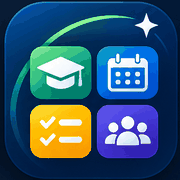
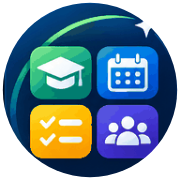
Dashboard veröffentlichen

diff --git a/index.html b/index.html
@@ -1,10 +1,32 @@
 <!DOCTYPE html>
-<html lang="de" data-access="locked">
+<html lang="de" data-access="locked" data-startup="loading">
 <head>
 <meta charset="UTF-8">
 <meta name="viewport" content="width=device-width, initial-scale=1.0">
-<meta name="hbl-version" content="8.0.16">
-<title>Schul-Dashboard HBL · v8.0.16</title>
+<meta name="hbl-version" content="8.0.17">
+<title>Schul-Dashboard HBL · v8.0.17</title>
+<style>
+#hblStartup{position:fixed;inset:0;z-index:20000;display:grid;place-items:center;padding:24px;background:var(--start-bg,#f4f6f8);color:var(--start-ink,#18202a);text-align:center;font-family:system-ui,sans-serif}
+html[data-startup-world=organic]{--start-bg:#f5ecdf;--start-ink:#183c2b}
+html[data-startup-world=glass]{--start-bg:linear-gradient(135deg,#edf5ff,#e8e5f7);--start-ink:#202c4b}
+html[data-startup-dark=true]{--start-bg:#111a29;--start-ink:#edf4ff}
+html[data-startup-world=organic][data-startup-dark=true]{--start-bg:#17271f;--start-ink:#edf3e9}
+html[data-startup-world=glass][data-startup-dark=true]{--start-bg:linear-gradient(135deg,#101d32,#29223d);--start-ink:#edf4ff}
+#hblStartup>section{max-width:28rem}
+#hblStartup img{display:block;width:clamp(110px,24vmin,180px);height:auto;aspect-ratio:1;margin:0 auto 20px}
+#hblStartup h1{font-size:clamp(20px,4vw,26px);margin:0 0 16px}
+#hblStartup p{line-height:1.5;margin:12px 0}
+#hblStartupDots{display:flex;justify-content:center;gap:7px}
+#hblStartupDots i{width:6px;height:6px;border-radius:50%;background:currentColor;animation:hbl-start-pulse 1s ease-in-out infinite alternate}
+#hblStartupDots i:nth-child(2){animation-delay:.15s}#hblStartupDots i:nth-child(3){animation-delay:.3s}
+#hblStartupRetry{min-height:44px;padding:10px 18px;border:1px solid currentColor;border-radius:10px;background:transparent;color:inherit;font:600 15px system-ui;cursor:pointer}
+html:not([data-startup=loading]):not([data-startup=error]) #hblStartup{display:none!important}
+html[data-startup=error] #hblStartupDots{display:none}
+html:is([data-startup=loading],[data-startup=error]) :is(#hblCloudModal,#hblProfileOverlay){display:none!important}
+@keyframes hbl-start-pulse{to{opacity:.25;transform:translateY(-3px)}}
+@media(prefers-reduced-motion:reduce){#hblStartupDots i{animation:none}}
+</style>
+
 <style>
 :root{
   --bg:#f4f6f8; --panel:#ffffff; --panel2:#eef2f5; --text:#18202a; --muted:#697582;
@@ -1381,13 +1403,14 @@ body.dark .hbl-slot-item.shared{background:#253247;color:#ecf2fa}
 <link rel="stylesheet" href="./hbl-v57.css?v=5.9.7-chat">
 <link rel="stylesheet" href="./hbl-v58.css?v=5.8">
 <link rel="stylesheet" href="./hbl-v59.css?v=5.9.11-courses">
-<link rel="manifest" href="./manifest.webmanifest?v=8.0.16">
+<link rel="manifest" href="./manifest.webmanifest?v=8.0.17">
 <meta name="theme-color" content="#253b60">
 <meta name="apple-mobile-web-app-capable" content="yes">
 <meta name="apple-mobile-web-app-title" content="HBL Dashboard">
 <meta name="apple-mobile-web-app-status-bar-style" content="black-translucent">
-<link rel="icon" href="./hbl-icon-48.png?v=8.0.16" type="image/png" sizes="48x48">
-<link rel="apple-touch-icon" sizes="180x180" href="./hbl-icon-180.png?v=8.0.16">
+<link rel="icon" href="./hbl-icon-48.png?v=8.0.17" type="image/png" sizes="48x48">
+<link rel="icon" href="./hbl-icon.svg?v=8.0.17" type="image/svg+xml">
+<link rel="apple-touch-icon" sizes="180x180" href="./hbl-icon-180.png?v=8.0.17">
 <script src="./hbl-course-ids.js?v=5.9.10"></script>
 <script src="./hbl-courses.js?v=5.9.13"></script>
 <script src="./hbl-grades.js?v=5.9.20"></script>
@@ -1396,27 +1419,61 @@ body.dark .hbl-slot-item.shared{background:#253247;color:#ecf2fa}
 <script src="./hbl-seating.js?v=5.9.21"></script>
 <script src="./hbl-seat-rating.js?v=7.6.0"></script>
 <script src="./hbl-seat-view.js?v=6.1.2"></script>
-<script src="./hbl-course-page.js?v=8.0.16"></script>
-<link rel="stylesheet" href="./hbl-course-page.css?v=8.0.16">
-<link rel="stylesheet" href="./hbl-quickbar.css?v=8.0.16">
-<script defer src="./mein-hbl.js?v=8.0.16"></script><script defer src="./hbl-music.js?v=6.0.1"></script>
+<script src="./hbl-course-page.js?v=8.0.17"></script>
+<link rel="stylesheet" href="./hbl-course-page.css?v=8.0.17">
+<link rel="stylesheet" href="./hbl-quickbar.css?v=8.0.17">
+<script defer src="./mein-hbl.js?v=8.0.17"></script><script defer src="./hbl-music.js?v=6.0.1"></script>
 <script defer src="./mobile.js?v=7.0.8"></script>
 <script defer src="https://cdn.jsdelivr.net/npm/@supabase/supabase-js@2.57.0"></script>
 
-<script defer src="./cloud.js?v=8.0.16"></script>
+<script defer src="./cloud.js?v=8.0.17"></script>
 <script defer src="./hbl-v55.js?v=7.0.8"></script>
 <script defer src="./hbl-v56.js?v=6.0.8"></script>
 <script defer src="./hbl-v57.js?v=5.9.7-chat"></script>
 <script defer src="./hbl-v58.js?v=5.9.5"></script>
 <script defer src="./hbl-v59.js?v=6.0.7"></script>
-<script defer src="./hbl-pwa-update.js?v=8.0.16"></script>
-<script defer src="./hbl-quickbar.js?v=8.0.16"></script>
-<style>#dashboardBoard>.dashboard-tile[hidden],#hblMobileNav button[hidden]{display:none!important}.mein-hbl fieldset{min-width:0;border:1px solid var(--line);border-radius:8px}.mein-hbl fieldset label{display:flex;align-items:center;min-height:40px}.mein-hbl{box-sizing:border-box;width:min(28rem,94vw);max-height:85dvh;overflow:auto;color:var(--text);background:var(--panel);border:1px solid var(--line);border-radius:16px;padding:1.2rem}.mein-hbl::backdrop{background:#10182077}.mein-hbl header{display:flex;align-items:center;justify-content:space-between}.mein-hbl section:not([hidden]),.mein-hbl label{display:grid;gap:.5rem}.mein-hbl button,.mein-hbl select{min-height:44px;padding:.5rem .8rem;border:1px solid var(--line);border-radius:8px;color:inherit;background:var(--panel2);font:inherit}.mein-hbl button:disabled{opacity:.6}.mein-hbl footer{border-top:1px solid var(--line);padding-top:.75rem}.mein-hbl a{color:var(--accent)}</style><style>#hblAppRoot{display:contents}</style><link rel="stylesheet" href="./hbl-workspace.css?v=8.0.16"><script defer src="./hbl-workspace.js?v=8.0.16"></script><script defer src="./hbl-sync-indicator.js?v=8.0.16"></script><style>
-html:not([data-access=ready]) body > :not(#hblCloudModal):not(#hblProfileOverlay):not(#hblUpdateNotice):not(script):not(style){display:none!important}
+<script defer src="./hbl-pwa-update.js?v=8.0.17"></script>
+<script defer src="./hbl-quickbar.js?v=8.0.17"></script>
+<style>#dashboardBoard>.dashboard-tile[hidden],#hblMobileNav button[hidden]{display:none!important}.mein-hbl fieldset{min-width:0;border:1px solid var(--line);border-radius:8px}.mein-hbl fieldset label{display:flex;align-items:center;min-height:40px}.mein-hbl{box-sizing:border-box;width:min(28rem,94vw);max-height:85dvh;overflow:auto;color:var(--text);background:var(--panel);border:1px solid var(--line);border-radius:16px;padding:1.2rem}.mein-hbl::backdrop{background:#10182077}.mein-hbl header{display:flex;align-items:center;justify-content:space-between}.mein-hbl section:not([hidden]),.mein-hbl label{display:grid;gap:.5rem}.mein-hbl button,.mein-hbl select{min-height:44px;padding:.5rem .8rem;border:1px solid var(--line);border-radius:8px;color:inherit;background:var(--panel2);font:inherit}.mein-hbl button:disabled{opacity:.6}.mein-hbl footer{border-top:1px solid var(--line);padding-top:.75rem}.mein-hbl a{color:var(--accent)}</style><style>#hblAppRoot{display:contents}</style><link rel="stylesheet" href="./hbl-workspace.css?v=8.0.17"><script defer src="./hbl-workspace.js?v=8.0.17"></script><script defer src="./hbl-sync-indicator.js?v=8.0.17"></script><style>
+html:not([data-access=ready]) body > :not(#hblStartup):not(#hblCloudModal):not(#hblProfileOverlay):not(#hblUpdateNotice):not(script):not(style){display:none!important}
 html:not([data-access=ready]) #hblCloudClose{display:none}
 html:not([data-access=ready]) body{padding:0!important}
 </style></head>
 <body>
+<div id="hblStartup" role="status" aria-live="polite" aria-label="App-Start">
+ <section><img src="./hbl-icon-192.png?v=8.0.17" width="192" height="192" alt="Schul-Dashboard App-Symbol" fetchpriority="high">
+ <h1>Schul-Dashboard</h1><div id="hblStartupDots" aria-hidden="true"><i></i><i></i><i></i></div>
+ <p id="hblStartupText">Anmeldung wird geprüft …</p><button id="hblStartupRetry" type="button" hidden>Erneut versuchen</button>
+ <noscript>Bitte JavaScript aktivieren, um das Dashboard zu öffnen.</noscript></section>
+</div>
+<script id="hblStartupController">
+(()=>{
+ const root=document.documentElement,byId=id=>document.getElementById(id);
+ try{
+  const world=localStorage.getItem('hbl-startup-world');
+  if(['organic','professional','glass'].includes(world))root.dataset.startupWorld=world;
+  root.dataset.startupDark=String(localStorage.getItem('schoolTheme')==='dark');
+ }catch(_){}
+ let timer,cancel;
+ function finish(state){clearTimeout(timer);cancel=null;root.dataset.startup=state;}
+ function fail(text){
+  clearTimeout(timer);const abort=cancel;cancel=null;abort?.();
+  root.dataset.startup='error';
+  byId('hblStartupText').textContent=text||'Die Verbindung konnte nicht hergestellt werden. Bitte Internetverbindung prüfen und erneut versuchen.';
+  byId('hblStartupRetry').hidden=false;
+ }
+ function begin(onCancel){
+  clearTimeout(timer);cancel=onCancel;
+  root.dataset.startup='loading';byId('hblStartupRetry').hidden=true;
+  byId('hblStartupText').textContent='Anmeldung wird geprüft …';
+  timer=setTimeout(()=>fail('Die Prüfung dauert zu lange. Bitte Internetverbindung prüfen und erneut versuchen.'),15000);
+ }
+ byId('hblStartupRetry').onclick=()=>location.reload();
+ window.hblStartup={begin,finish,fail};
+ begin();
+})();
+</script>
+
 <script>
 /* =========================
    EINFACH ANPASSEN
@@ -2677,7 +2734,7 @@ function renderHome(){
       <section class="hero">
         <div class="hero-content">
           <div class="hero-intro">
-            <div class="hero-headline"><h1>Schul-Dashboard HBL</h1><span class="dashboard-version" title="Dashboard-Version vom 22. November 2026">v8.0.16 Pre-Alpha<span class="dashboard-version-date"> · GitHub Pages</span></span></div>
+            <div class="hero-headline"><h1>Schul-Dashboard HBL</h1><span class="dashboard-version" title="Dashboard-Version vom 22. November 2026">v8.0.17 Pre-Alpha<span class="dashboard-version-date"> · GitHub Pages</span></span></div>
             <p>Alles Wichtige für den Schulalltag an einem Ort.</p><div class="demo-alert">TESTVERSION · Nur Beispieldaten verwenden · Persönliches Konto mit Cloud-Synchronisierung</div>
             <div class="dashboard-creator" aria-label="Designed by Michael Baumann"><span class="creator-label">Designed by</span><span class="creator-signature"><svg class="creator-logo" xmlns="http://www.w3.org/2000/svg" viewBox="0 0 1058 119" role="img" aria-label="Michael Baumann" preserveAspectRatio="xMinYMid meet">
 <title>Michael Baumann</title>

diff --git a/cloud.js b/cloud.js
@@ -11,7 +11,7 @@ function access(allowed){
  const root=document.getElementById("hblAppRoot");if(root)root.inert=!allowed;
 }
 access(false);
-let sessionVersion=0,changeVersion=0,readVersion=0,restoring=false;
+let bootVersion=0,sessionVersion=0,changeVersion=0,readVersion=0,restoring=false;
 let loggingOut=false,retrying=false,pendingBackupFailed=false;
 function userKey(){return user ? "hbl-cloud-pending-"+user.id : "";}
 function validDemoData(data){return data&&typeof data==="object"&&!Array.isArray(data);}
@@ -127,12 +127,29 @@ window.savePrepFile=function(){
  });
  return queue;
 };
+function beginStartup(){
+ window.hblStartup?.begin(()=>{
+  bootVersion++;sessionVersion++;readVersion++;
+  active=false;serverReady=false;access(false);
+ });
+}
+function startupFailure(error){
+ if(error?.status===401||['refresh_token_not_found','refresh_token_already_used','bad_jwt','session_not_found'].includes(error?.code)){
+  user=null;active=false;serverReady=false;access(false);controls();
+  message("Deine Sitzung ist abgelaufen. Bitte erneut anmelden.",true);
+  window.hblStartup?.finish("login");showModal(true);
+ }else{
+  status("Start fehlgeschlagen: "+(error?.message||"Verbindung nicht erreichbar"),true);
+  window.hblStartup?.fail();
+ }
+}
 async function startSession(session){
+ beginStartup();
  const version=++sessionVersion;
- access(false);
+ serverReady=false;access(false);
  user=session?.user||null;
  active=false;paused=false;dirty=false;revision=0;pendingBackupFailed=false;
- if(!user){active=false;paused=false;dirty=false;revision=0;controls();showModal(true);return;}
+ if(!user){active=false;paused=false;dirty=false;revision=0;controls();window.hblStartup?.finish("login");showModal(true);return;}
  controls();
  try{
   const membership=await client.from("hbl_dashboard_members").select("enabled").eq("user_id",user.id).maybeSingle();
@@ -141,7 +158,7 @@ async function startSession(session){
   if(!membership.data?.enabled){
    active=false;
    status("Konto nicht freigeschaltet – bitte Administrator kontaktieren",true);
-   message("Konto nicht freigeschaltet – bitte Administrator kontaktieren",true);showModal(true);
+   message("Konto nicht freigeschaltet – bitte Administrator kontaktieren",true);window.hblStartup?.finish("login");showModal(true);
    window.dispatchEvent(new Event("hbl-cloud-status"));
    return;
   }
@@ -156,9 +173,9 @@ async function startSession(session){
    status("Lokale Änderungen wiederhergestellt – bitte exportieren oder erneut speichern",true);
   }else await loadRemote();
   if(version!==sessionVersion)return;
-  access(true);showModal(false);
+  access(true);window.hblStartup?.finish("ready");showModal(false);
   window.dispatchEvent(new Event("hbl-cloud-status"));
- }catch(e){status("Cloud-Laden fehlgeschlagen: "+e.message,true);message(e.message,true);}
+ }catch(e){if(version===sessionVersion)startupFailure(e);}
 }
 window.hblLogout=async function(){
  if(loggingOut||!client)return false;
@@ -219,9 +236,14 @@ async function initializeAuth(){
  el("hblCloudForm").onsubmit=async e=>{
   e.preventDefault();
   if(!client)return message("Supabase-Anmeldung konnte nicht geladen werden.",true);
+  beginStartup();const attempt=++bootVersion;
   message("Anmeldung läuft …");
-  const {data,error}=await client.auth.signInWithPassword({email:el("hblCloudEmail").value.trim(),password:el("hblCloudPassword").value});
-  if(error)message(error.message,true);else {message("Angemeldet ✓");await startSession(data.session);}
+  try{
+   const {data,error}=await client.auth.signInWithPassword({email:el("hblCloudEmail").value.trim(),password:el("hblCloudPassword").value});
+   if(attempt!==bootVersion)return;
+   if(error){window.hblStartup?.finish("login");showModal(true);message(error.message,true);}
+   else {message("Angemeldet ✓");await startSession(data.session);}
+  }catch(e){if(attempt===bootVersion)startupFailure(e);}
  };
  el("hblLocalBackup").onclick=downloadLocalBackup;
  el("hblCloudLogout").onclick=()=>window.hblLogout();
@@ -238,8 +260,8 @@ async function initializeAuth(){
   try{await cloudWrite(saved);applyPrepData(saved);}
   catch(e){status("Übernahme fehlgeschlagen: "+e.message,true);}
  };
- showModal(true);
- if(!window.supabase?.createClient){message("Anmeldung nicht erreichbar. Bitte Internetverbindung prüfen und Seite neu laden.",true);status("Cloud-Bibliothek nicht geladen – bitte Seite neu öffnen",true);return;}
+ beginStartup();
+ if(!window.supabase?.createClient){startupFailure(Error("Cloud-Bibliothek nicht geladen"));return;}
  client=window.supabase.createClient(URL,KEY,{auth:{persistSession:true,autoRefreshToken:true,detectSessionInUrl:true}});
  window.hblCloudClient=client;
  window.hblCloudUser=()=>user;
@@ -258,16 +280,20 @@ async function initializeAuth(){
   }
  };
  client.auth.onAuthStateChange((event,session)=>{
-  if(event==="SIGNED_OUT"){sessionVersion++;user=null;active=false;access(false);controls();showModal(true);window.dispatchEvent(new Event("hbl-cloud-status"));}
-  if((event==="SIGNED_IN"||event==="PASSWORD_RECOVERY")&&session?.user&&session.user.id!==user?.id){
-   setTimeout(()=>{if(session?.user&&session.user.id!==user?.id)void startSession(session);},0);
+  if(event==="SIGNED_OUT"){bootVersion++;sessionVersion++;user=null;active=false;access(false);controls();window.hblStartup?.finish("login");showModal(true);window.dispatchEvent(new Event("hbl-cloud-status"));}
+  if(document.documentElement.dataset.startup!=="error"&&(event==="SIGNED_IN"||event==="PASSWORD_RECOVERY")&&session?.user&&session.user.id!==user?.id){
+   setTimeout(()=>{if(document.documentElement.dataset.startup!=="error"&&session?.user&&session.user.id!==user?.id)void startSession(session);},0);
   }
   // TOKEN_REFRESHED does not replace the current state.
  });
- const {data,error}=await client.auth.getSession();
- if(error)status("Anmeldung konnte nicht gelesen werden: "+error.message,true);
- else if(data.session)await startSession(data.session);
- else {controls();showModal(true);window.dispatchEvent(new Event("hbl-cloud-status"));}
+ const attempt=++bootVersion;
+ try{
+  const {data,error}=await client.auth.getSession();
+  if(attempt!==bootVersion)return;
+  if(error)startupFailure(error);
+  else if(data.session)await startSession(data.session);
+  else {controls();window.hblStartup?.finish("login");showModal(true);window.dispatchEvent(new Event("hbl-cloud-status"));}
+ }catch(e){if(attempt===bootVersion)startupFailure(e);}
  window.addEventListener("hbl-profile-changed",controls);
  window.addEventListener("offline",()=>status(paused?"Sync-Problem · offline. Lokale Änderungen prüfen":"Offline · Änderungen bleiben lokal, Verbindung wird benötigt",false,paused?"error":"pending"));
  window.addEventListener("online",()=>void resumeSync());

diff --git a/sw.js b/sw.js
@@ -1,7 +1,7 @@
 /* HBL v5.5 – Offline-App-Shell & Push-Empfang. Keine Nutzerdaten im SW-Cache. */
-const CACHE="hbl-pwa-shell-v8016-round-icon";
-const ASSETS=["./hbl-sync-indicator.js?v=8.0.16","./hbl-workspace.js?v=8.0.16","./hbl-workspace.css?v=8.0.16","./hbl-pwa-update.js?v=8.0.16","./hbl-quickbar.css?v=8.0.16","./hbl-quickbar.js?v=8.0.16","./hbl-music.js?v=6.0.1","./supabase/functions/hbl-push-dispatch/push-policy.mjs?v=6.0.0","./mein-hbl.js?v=8.0.16","./hbl-grades.js?v=5.9.20","./hbl-participation-grades.js?v=7.4.0","./hbl-class-rosters.js?v=7.0.13","./hbl-seating.js?v=5.9.21","./hbl-seat-rating.js?v=7.6.0","./hbl-seat-view.js?v=6.1.2","./hbl-course-page.js?v=8.0.16","./hbl-course-page.css?v=8.0.16","./hbl-courses.js?v=5.9.13","./hbl-course-ids.js?v=5.9.10","./","./index.html","./mobile.css?v=6.0.6","./cloud.css?v=6.1.0",
- "./hbl-v55.css?v=6.0.6","./hbl-v56.css?v=5.6","./hbl-v57.css?v=5.9.7-chat","./hbl-v58.css?v=5.8","./hbl-v59.css?v=5.9.11-courses","./mobile.js?v=7.0.8","./cloud.js?v=8.0.16",
+const CACHE="hbl-pwa-shell-v8017-startup";
+const ASSETS=["./hbl-icon-192.png?v=8.0.17","./hbl-icon-180.png?v=8.0.17","./hbl-icon-48.png?v=8.0.17","./hbl-icon.svg?v=8.0.17","./hbl-sync-indicator.js?v=8.0.17","./hbl-workspace.js?v=8.0.17","./hbl-workspace.css?v=8.0.17","./hbl-pwa-update.js?v=8.0.17","./hbl-quickbar.css?v=8.0.17","./hbl-quickbar.js?v=8.0.17","./hbl-music.js?v=6.0.1","./supabase/functions/hbl-push-dispatch/push-policy.mjs?v=6.0.0","./mein-hbl.js?v=8.0.17","./hbl-grades.js?v=5.9.20","./hbl-participation-grades.js?v=7.4.0","./hbl-class-rosters.js?v=7.0.13","./hbl-seating.js?v=5.9.21","./hbl-seat-rating.js?v=7.6.0","./hbl-seat-view.js?v=6.1.2","./hbl-course-page.js?v=8.0.17","./hbl-course-page.css?v=8.0.17","./hbl-courses.js?v=5.9.13","./hbl-course-ids.js?v=5.9.10","./","./index.html","./mobile.css?v=6.0.6","./cloud.css?v=6.1.0",
+ "./hbl-v55.css?v=6.0.6","./hbl-v56.css?v=5.6","./hbl-v57.css?v=5.9.7-chat","./hbl-v58.css?v=5.8","./hbl-v59.css?v=5.9.11-courses","./mobile.js?v=7.0.8","./cloud.js?v=8.0.17",
  "./hbl-v55.js?v=7.0.8","./hbl-v56.js?v=6.0.8","./hbl-v57.js?v=5.9.7-chat","./hbl-v58.js?v=5.9.5","./hbl-v59.js?v=6.0.7","./manifest.webmanifest","./hbl-icon.svg","./hbl-icon-192.png","./hbl-icon-512.png","./hbl-icon-180.png","./hbl-icon-48.png","./hbl-icon-maskable-512.png","./hbl-icon-round-maskable.svg"];
 self.addEventListener("install",event=>{
  // Auch die beiden Shell-URLs "./" und "./index.html" müssen beim Update

diff --git a/hbl-workspace.js b/hbl-workspace.js
@@ -16,6 +16,7 @@
  function apply(value={}){
   value=value||{};
   root.dataset.world=["organic","professional","glass"].includes(value.theme)?value.theme:defaults.theme;
+  if(typeof serverReady!=='undefined'&&serverReady){try{localStorage.setItem('hbl-startup-world',root.dataset.world);}catch(_){}}
   root.dataset.dock=["top","bottom","left","right"].includes(value.position)?value.position:"top";
   root.dataset.compact=String(value.collapsed===true);
   const toggle=document.querySelector("#workspaceNav [data-action=fold]");

diff --git a/CHANGELOG.md b/CHANGELOG.md
@@ -1,3 +1,7 @@
+## v8.0.17 – 25.11.2026 · Codex
+
+Gewähltes rundes Icon unverändert aus der SVG-Vorlage in alle PNG-Größen übernommen, mit transparenten Ecken und eigener undurchsichtiger Android-Maske innerhalb der sicheren Kreisfläche. App-Start zeigt dasselbe Icon und prüft Sitzung, Freigabe und Daten vor dem Öffnen; kein vorzeitiges Login. Verbindungsfehler/15-Sekunden-Zeitlimit mit Wiederholen, verspätete Antworten verworfen, reduzierte Bewegung berücksichtigt. Prüfstand: 120 Tests, Release-Paketprüfung, Browser-Starttests und Icon-Pixelprüfung; echte Android-/iPad-Launcher-Abnahme offen. Endgültige Homescreen-Maske und Symbol-Cache bleiben Betriebssystemvorgaben.
+
 ## v8.0.15 – 25.11.2026 · ChatGPT
 
 Neues App-Symbol (gewählter Vorschlag 3): vier farbige Kacheln für Bildung, Kalender, Aufgaben und Kollegium ohne HBL-Schriftzug. Eigene PNG-Icons für PWA (192/512), maskierbares Android-Icon (512), Apple-Startbildschirm (180) und Browser-Favicon (48), dazu gleich gestaltetes SVG. Manifest, HTML-Icon-Links, Service-Worker-Cache und öffentliche Release-Whitelist aktualisiert. Automatische Größen-/Releaseprüfung ergänzt; echte Gerätetests sowie Aktualisierung bereits installierter Homescreen-Symbole offen.
